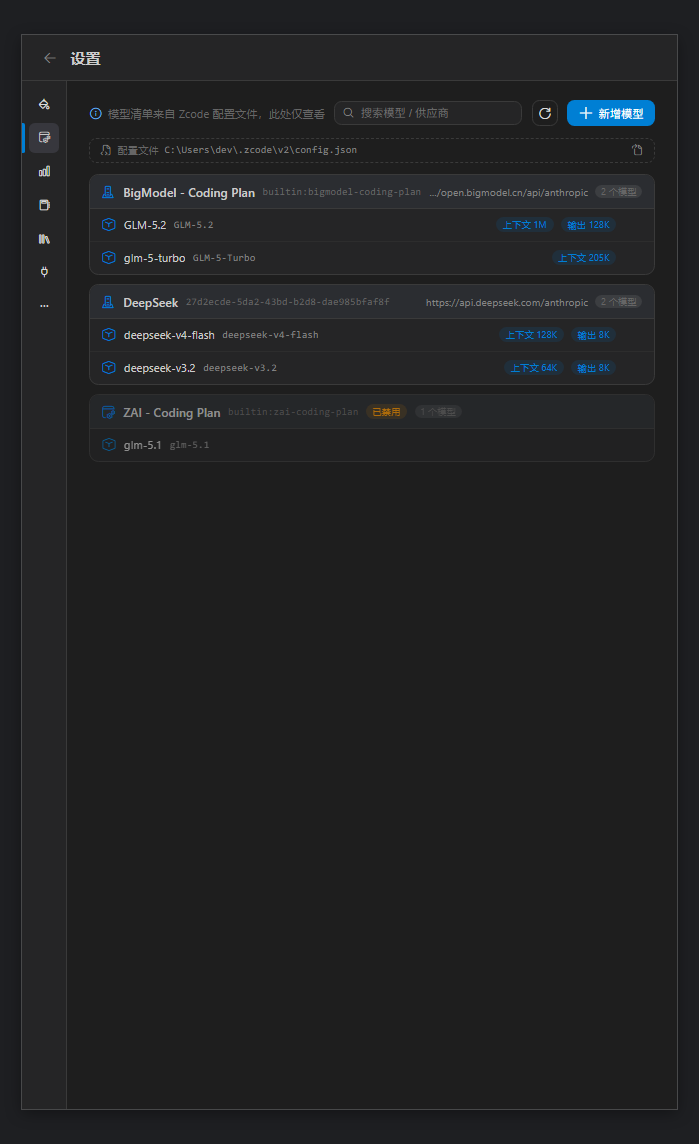
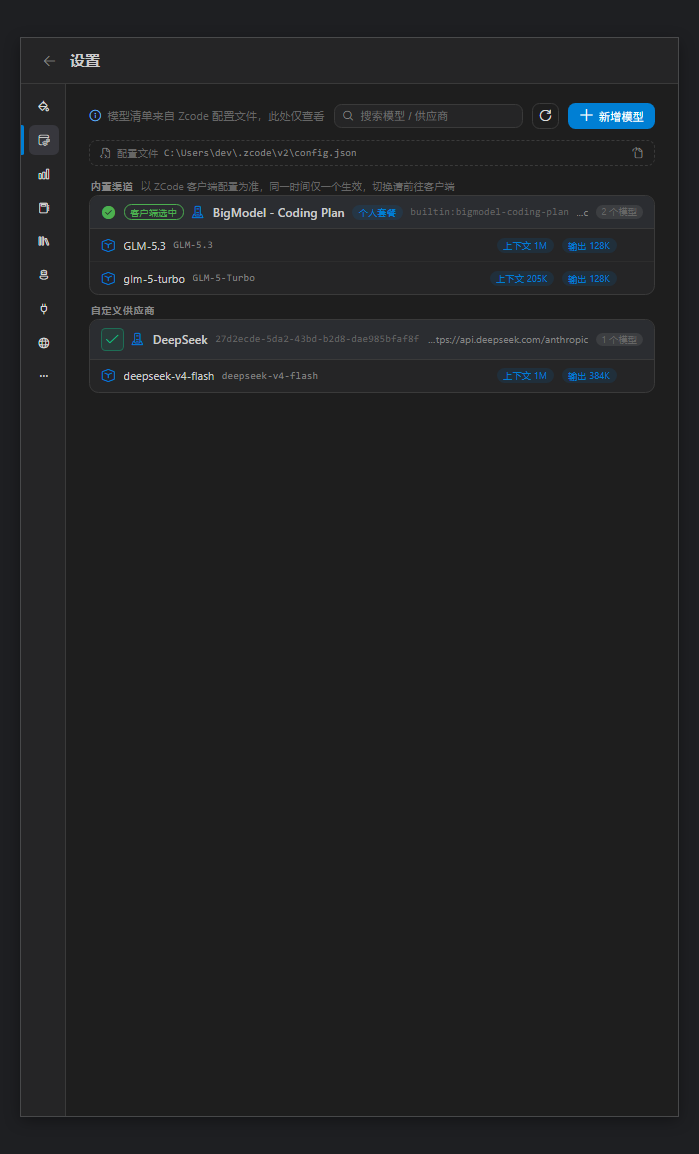
docs# README 补充 0.2.6 新功能并更新设置页截图
- README/README.en：功能一览补模型渠道联动（内置渠道只展示生效渠道+命中方式徽章/第三方可启停/下拉内手动刷新）、应用用量（本地统计覆盖第三方模型）、凭证缺失不阻断启动、拖文件转 chip；截图说明同步新界面
- screenshots：重截设置页「用量」与「模型管理」（webview dev mock 数据：应用用量双 tab+统计卡+第三方徽章；内置渠道只读卡片+客户端选中徽章+第三方启停开关）

diff --git a/README.en.md b/README.en.md
@@ -42,15 +42,15 @@ This project has exactly one goal: **use ZCode's core capabilities where you wri
 
 **Embedded browser** — the Header globe button expands a browser column to the right of the chat area: multiple tabs (globally shared, persist across sessions), back / forward / refresh / address bar / free-size viewport (DevTools device-toolbar style virtual screen) / DevTools / open externally; the plugin hosts the browser-use reverse protocol, so the AI can drive this browser — navigate, screenshot, execute JS, run playwright locators and CUA mouse/keyboard actions — with zero configuration
 
-**Runtime control** — model dropdown, permission mode (build / edit / plan / yolo) and thinking level (per model), adjustable; preselectable in the standby state (before a session exists), applied when the session is created; context-capacity ring (usage breakdown + cache hits), 5-hour / weekly quota queries
+**Runtime control** — model dropdown (builtin channels follow the active channel in the ZCode client; manual refresh inside the dropdown), permission mode (build / edit / plan / yolo) and thinking level (per model), adjustable; preselectable in the standby state (before a session exists), applied when the session is created; context-capacity ring (usage breakdown + cache hits), 5-hour / weekly quota queries
 
-**Settings center** — seven tabs: General (theme / font / language / custom colors + environment paths), Models (provider-grouped read-only list; paths follow data-directory migration; add/remove guides you to ZCode config with one-click open), Usage (quota cards + model/tool usage curves and detail tables), Memory (AGENTS.md instruction memory + auto memory, creatable when missing), Skills (global / project / plugin three-source scan, inline enable/disable), MCP (server list / tool list / connection logs), Other (input-history completion toggle and history management)
+**Settings center** — seven tabs: General (theme / font / language / custom colors + environment paths), Models (builtin channels follow the ZCode client config — only the active one is shown, annotated with how it was resolved: client-selected or fallback; third-party providers can be toggled; paths follow data-directory migration; add/remove guides you to ZCode config with one-click open), Usage (App usage: local session stats covering third-party models, 7-day / 30-day / all ranges; GLM plan usage: quota cards + model/tool usage curves and detail tables, with the queried credential source labeled), Memory (AGENTS.md instruction memory + auto memory, creatable when missing), Skills (global / project / plugin three-source scan, inline enable/disable), MCP (server list / tool list / connection logs), Other (input-history completion toggle and history management)
 
-**Environment check** — on startup verifies Node.js (≥18) / ZCode CLI / login credentials; on failure the top bar shows a notice with per-item fix entry points and a re-check button; paths can be configured manually and are auto-detected when left blank
+**Environment check** — on startup verifies Node.js (≥18) / ZCode CLI / login credentials; on failure the top bar shows a notice with per-item fix entry points and a re-check button (missing credentials no longer block startup — a hint is shown instead); paths can be configured manually and are auto-detected when left blank
 
 **IDE integration** — right-click a file in the project view / editor tab to send it, right-click selected code in the editor to send it to the input box (Ctrl+Alt+K), copy selection reference (path + line numbers); files, memory, skills, and MCP configs all open in the editor with one click
 
-**Input enhancements** — `@` file references (chip + completion; pasted absolute paths become chips), `/` skill invocation, long-paste collapsing, input-history browsing with prefix ghost completion (Tab to accept)
+**Input enhancements** — `@` file references (chip + completion; pasted absolute paths or files dragged from the OS become chips), `/` skill invocation, long-paste collapsing, input-history browsing with prefix ghost completion (Tab to accept)
 
 **Multi-language** — 简体中文 / English / 日本語 / 한국어 / 繁體中文, switches automatically with the IDE UI language
 
@@ -93,10 +93,10 @@ It is more than a built-in browser — the plugin implements the ZCode app-serve
 
 **Settings center**
 
-| General (theme / font / language / custom colors + environment paths) | Model management (provider-grouped read-only list / add-remove guides to ZCode config) |
+| General (theme / font / language / custom colors + environment paths) | Model management (builtin channel read-only + resolution badge / third-party toggles) |
 | :---: | :---: |
 | ![General settings](docs/screenshots/settings-basic.png) | ![Model management](docs/screenshots/settings-models.png) |
-| **Usage (quota cards / model & tool usage curves)** | **Memory (instruction / auto memory management)** |
+| **Usage (App usage: local session stats + third-party model details)** | **Memory (instruction / auto memory management)** |
 | ![Usage](docs/screenshots/settings-usage.png) | ![Memory](docs/screenshots/settings-memory.png) |
 | **Skills (three-source scan & enable management)** | **MCP (server list / tool list / connection logs)** |
 | ![Skills](docs/screenshots/settings-skills.png) | ![MCP](docs/screenshots/settings-mcp.png) |
